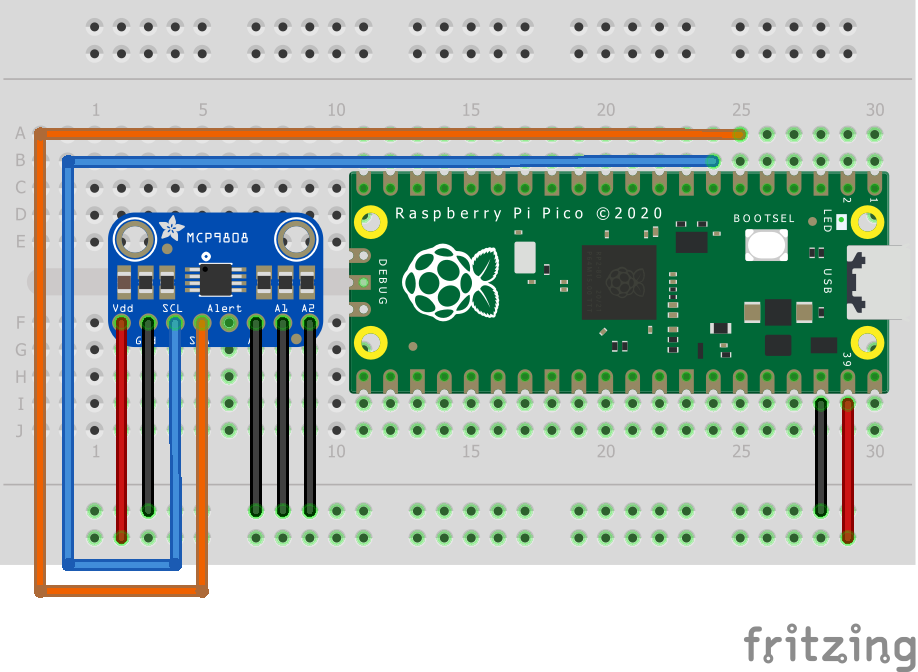
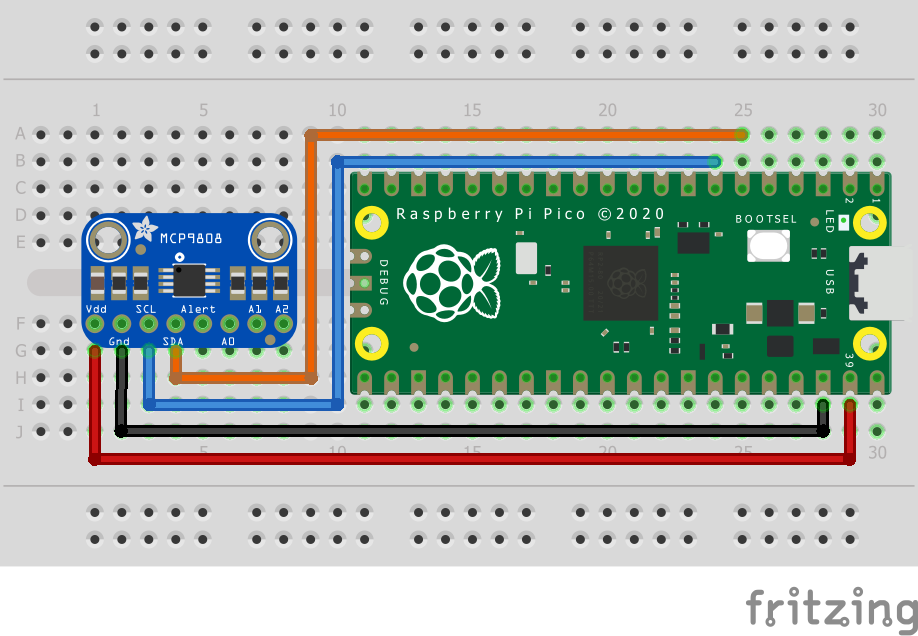
Restructure code and chnage wiring diagram

diff --git a/i2c/mcp9808_i2c/mcp9808_i2c.c b/i2c/mcp9808_i2c/mcp9808_i2c.c
@@ -1,7 +1,7 @@
 /**
  * Copyright (c) 2020 Raspberry Pi (Trading) Ltd.
  *
- * SPDX-License-Identifier: BSD-3-Clause
+ * SPDx-License-Identifier: BSD-3-Clause
  */
 
 #include <stdio.h>
@@ -16,30 +16,30 @@
 
    Connections on Raspberry Pi Pico board, other boards may vary.
 
-   GPIO PICO_DEFAULT_I2C_SDA_PIN (On Pico this is 4 (pin 6)) -> SDA on MCP9808 board
-   GPIO PICO_DEFAULT_I2C_SCK_PIN (On Pico this is 5 (pin 7)) -> SCL on MCP9808 board
-   Vsys (pin 39) -> VDD on MCP9808 board
-   GND (pin 38)  -> GND on MCP9808 board
+   GPIO PICO_DEFAULT_I2C_SDA_PIN (On Pico this is GP4 (physical pin 6)) -> SDA on MCP9808 board
+   GPIO PICO_DEFAULT_I2C_SCK_PIN (On Pico this is GP5 (physcial pin 7)) -> SCL on MCP9808 board
+   Vsys (physical pin 39) -> VDD on MCP9808 board
+   GND (physical pin 38)  -> GND on MCP9808 board
 
 */
 //The bus address is determined by the state of pins A0, A1 and A2 on the MCP9808 board
-static uint8_t ADDRESS = 0X18;
+static uint8_t ADDRESS = 0x18;
 
-const uint8_t WRITE_MODE = 0XFE;
-const uint8_t READ_MODE = 0XFF;
+const uint8_t WRITE_MODE = 0xFE;
+const uint8_t READ_MODE = 0xFF;
 
 
 //hardware registers
 
-const uint8_t REG_POINTER = 0X00;
-const uint8_t REG_CONFIG = 0X01;
-const uint8_t REG_TEMP_UPPER = 0X02;
-const uint8_t REG_TEMP_LOWER = 0X03;
-const uint8_t REG_TEMP_CRIT = 0X04;
-const uint8_t REG_TEMP_AMB = 0X05;
-const uint8_t REG_MAN_ID = 0X06;
-const uint8_t REG_DEV_ID = 0X07;
-const uint8_t REG_RESOLUTION = 0X08;
+const uint8_t REG_POINTER = 0x00;
+const uint8_t REG_CONFIG = 0x01;
+const uint8_t REG_TEMP_UPPER = 0x02;
+const uint8_t REG_TEMP_LOWER = 0x03;
+const uint8_t REG_TEMP_CRIT = 0x04;
+const uint8_t REG_TEMP_AMB = 0x05;
+const uint8_t REG_MAN_ID = 0x06;
+const uint8_t REG_DEV_ID = 0x07;
+const uint8_t REG_RESOLUTION = 0x08;
 
 
 void mcp9808_check_limits(uint8_t upper_byte) {
@@ -51,33 +51,21 @@ void mcp9808_check_limits(uint8_t upper_byte) {
     if ((upper_byte & 0x20) == 0x20) { //TA < TLOWER
         printf("Temperature is below the lower temperature limit.\n");
     }
-    if ((upper_byte & 0x80) == 0x80) { //TA < TCRIT
+    if ((upper_byte & 0x80) == 0x80) { //TA > TCRIT
         printf("Temperature is above the critical temperature limit.\n");
     }
 }
 
-float mcp9808_convert_temp(uint8_t buf[]){
+float mcp9808_convert_temp(uint8_t upper_byte, uint8_t lower_byte) {
 
-    uint16_t upper_byte;
-    uint16_t lower_byte;
     float temperature;
-
-    upper_byte = buf[0];
-    lower_byte = buf[1];
-
-
-    mcp9808_check_limits(upper_byte);
-
-    //Clear flag bits
-    upper_byte = upper_byte & 0x1F; 
 
 
     //Check if TA <= 0°C and convert to denary accordingly
     if ((upper_byte & 0x10) == 0x10) { 
         upper_byte = upper_byte & 0x0F; 
         temperature = 256 - (((float)upper_byte * 16) + ((float)lower_byte / 16));
-    }
-    else {
+    } else {
         temperature = (((float)upper_byte * 16) + ((float)lower_byte / 16));
   
     }
@@ -85,35 +73,17 @@ float mcp9808_convert_temp(uint8_t buf[]){
 }
 
 
-void mcp9808_read_temp(){  
-
-    uint8_t buf[2];
-    float temperature;
-
-    while (1) {
-    // Start reading ambient temperature register for 2 bytes
-    i2c_write_blocking (i2c_default, 0x18 & WRITE_MODE ,&REG_TEMP_AMB,1,true);
-    i2c_read_blocking(i2c_default, 0x18 & READ_MODE, buf, 2, false);
-
-    temperature = mcp9808_convert_temp(buf);
-    printf("Ambient temperature: %.4f°C\n", temperature);
-
-    sleep_ms(1000); 
-    }   
-}
-
-
-void mcp9808_set_limits(){
+void mcp9808_set_limits() {
     
     //Set an upper limit of 30°C for the temperature
     uint8_t upper_temp_msb = 0x01;
     uint8_t upper_temp_lsb = 0xE0;
 
-    //Set an lower limit of 30°C for the temperature
+    //Set a lower limit of 20°C for the temperature
     uint8_t lower_temp_msb = 0x01;
     uint8_t lower_temp_lsb = 0x40;
 
-    //Set an critical limit of 30°C for the temperature
+    //Set a critical limit of 40°C for the temperature
     uint8_t crit_temp_msb = 0x02;
     uint8_t crit_temp_lsb = 0x80;
 
@@ -121,17 +91,17 @@ void mcp9808_set_limits(){
     buf[0] = REG_TEMP_UPPER;
     buf[1] = upper_temp_msb;
     buf[2] = upper_temp_lsb; 
-    i2c_write_blocking (i2c_default, ADDRESS, buf, 3, false);
+    i2c_write_blocking(i2c_default, ADDRESS, buf, 3, false);
 
     buf[0] = REG_TEMP_LOWER;
     buf[1] = lower_temp_msb;
     buf[2] = lower_temp_lsb; 
-    i2c_write_blocking (i2c_default, ADDRESS, buf, 3, false);
+    i2c_write_blocking(i2c_default, ADDRESS, buf, 3, false);
 
     buf[0] = REG_TEMP_CRIT;
     buf[1] = crit_temp_msb;
     buf[2] = crit_temp_lsb; ;
-    i2c_write_blocking (i2c_default, ADDRESS, buf, 3, false);
+    i2c_write_blocking(i2c_default, ADDRESS, buf, 3, false);
 }
 
 
@@ -156,6 +126,28 @@ int main() {
 #endif
 
     mcp9808_set_limits();
+    
+    uint8_t buf[2];
+    uint16_t upper_byte;
+    uint16_t lower_byte;
 
-    mcp9808_read_temp();
+    float temperature;
+
+    while (1) {
+        // Start reading ambient temperature register for 2 bytes
+        i2c_write_blocking(i2c_default, ADDRESS & WRITE_MODE, &REG_TEMP_AMB, 1, true);
+        i2c_read_blocking(i2c_default, ADDRESS & READ_MODE, buf, 2, false);
+         
+        upper_byte = buf[0];
+        lower_byte = buf[1];
+
+        //isolates limit flags in upper byte
+        mcp9808_check_limits(upper_byte & 0xE0);
+        
+        //clears flag bits in upper byte
+        temperature = mcp9808_convert_temp(upper_byte & 0x1F, lower_byte);
+        printf("Ambient temperature: %.4f°C\n", temperature);        
+        
+        sleep_ms(1000); 
+    }   
 }
